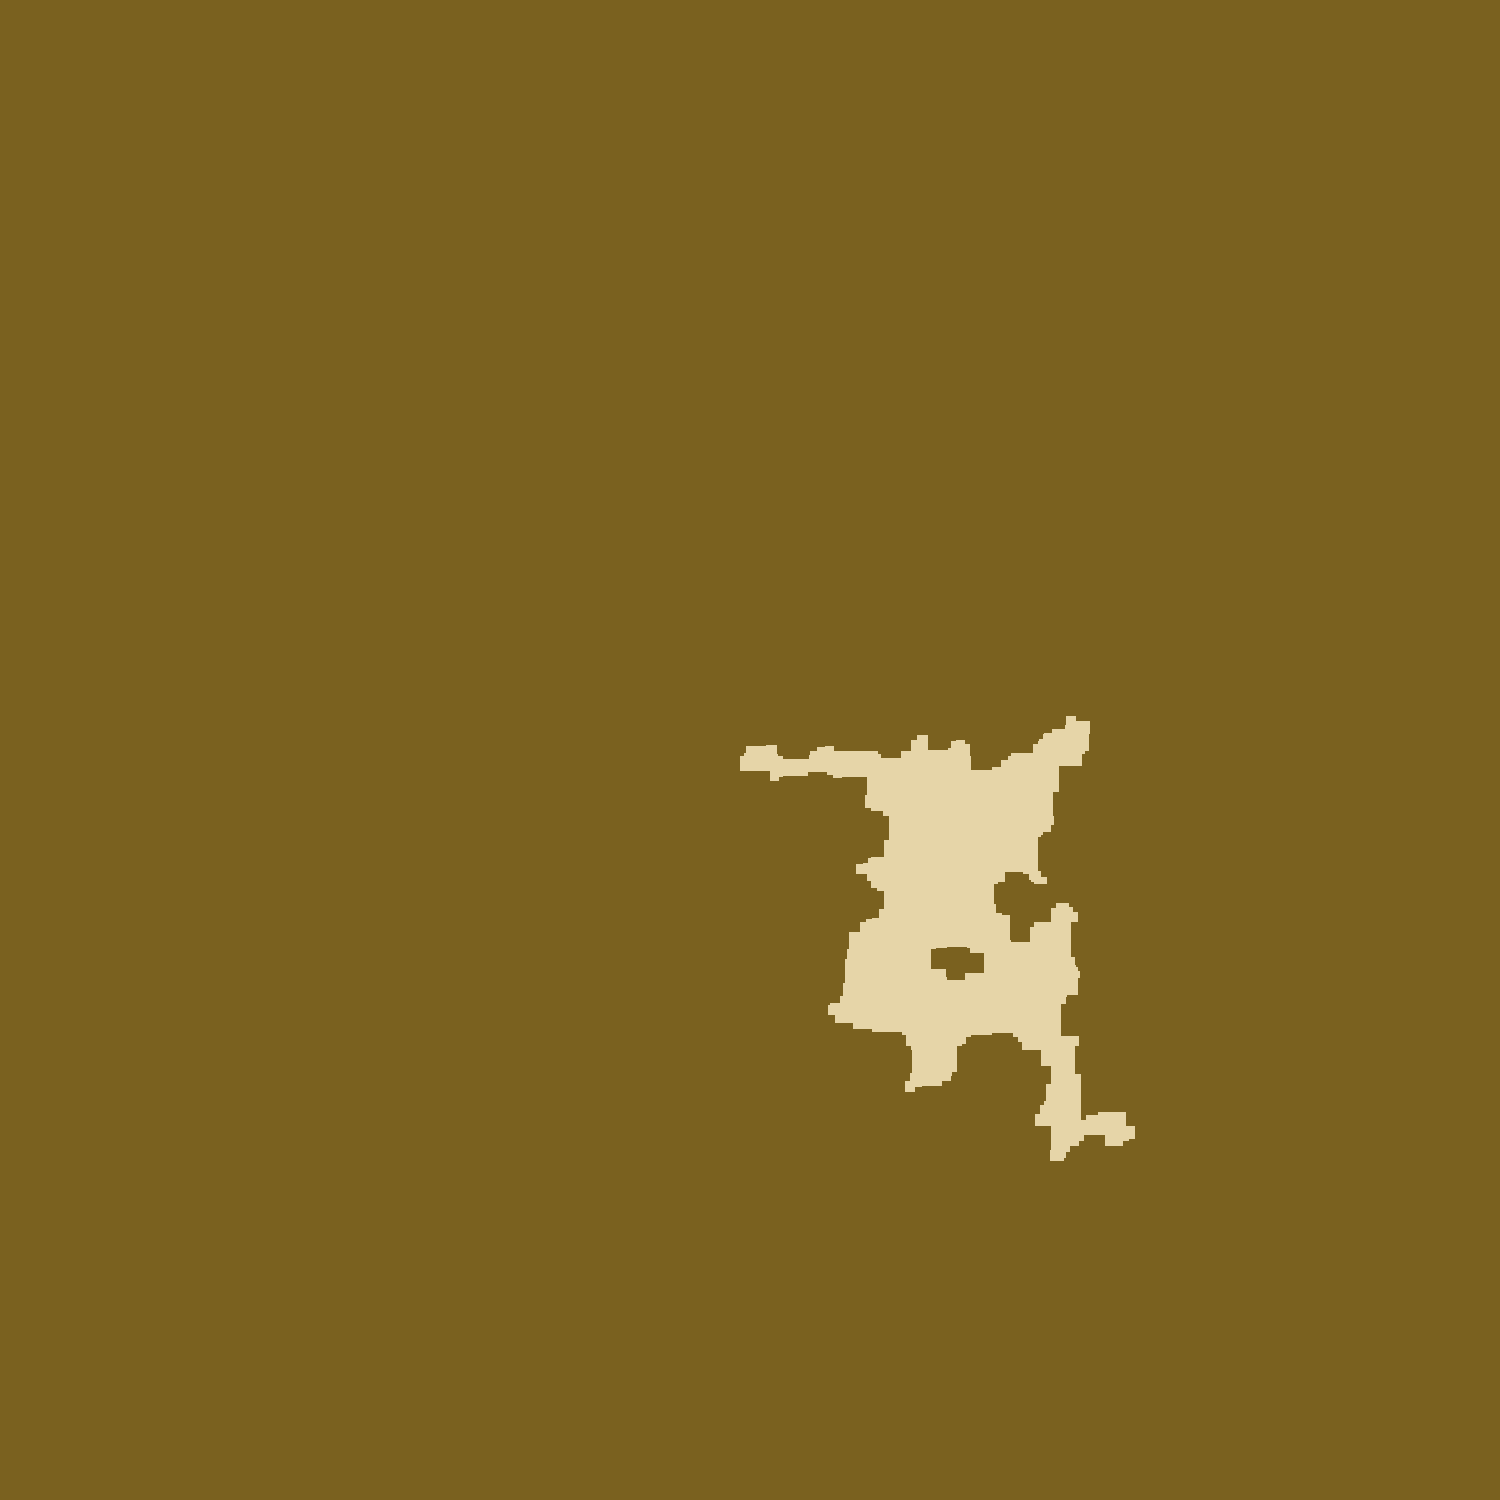
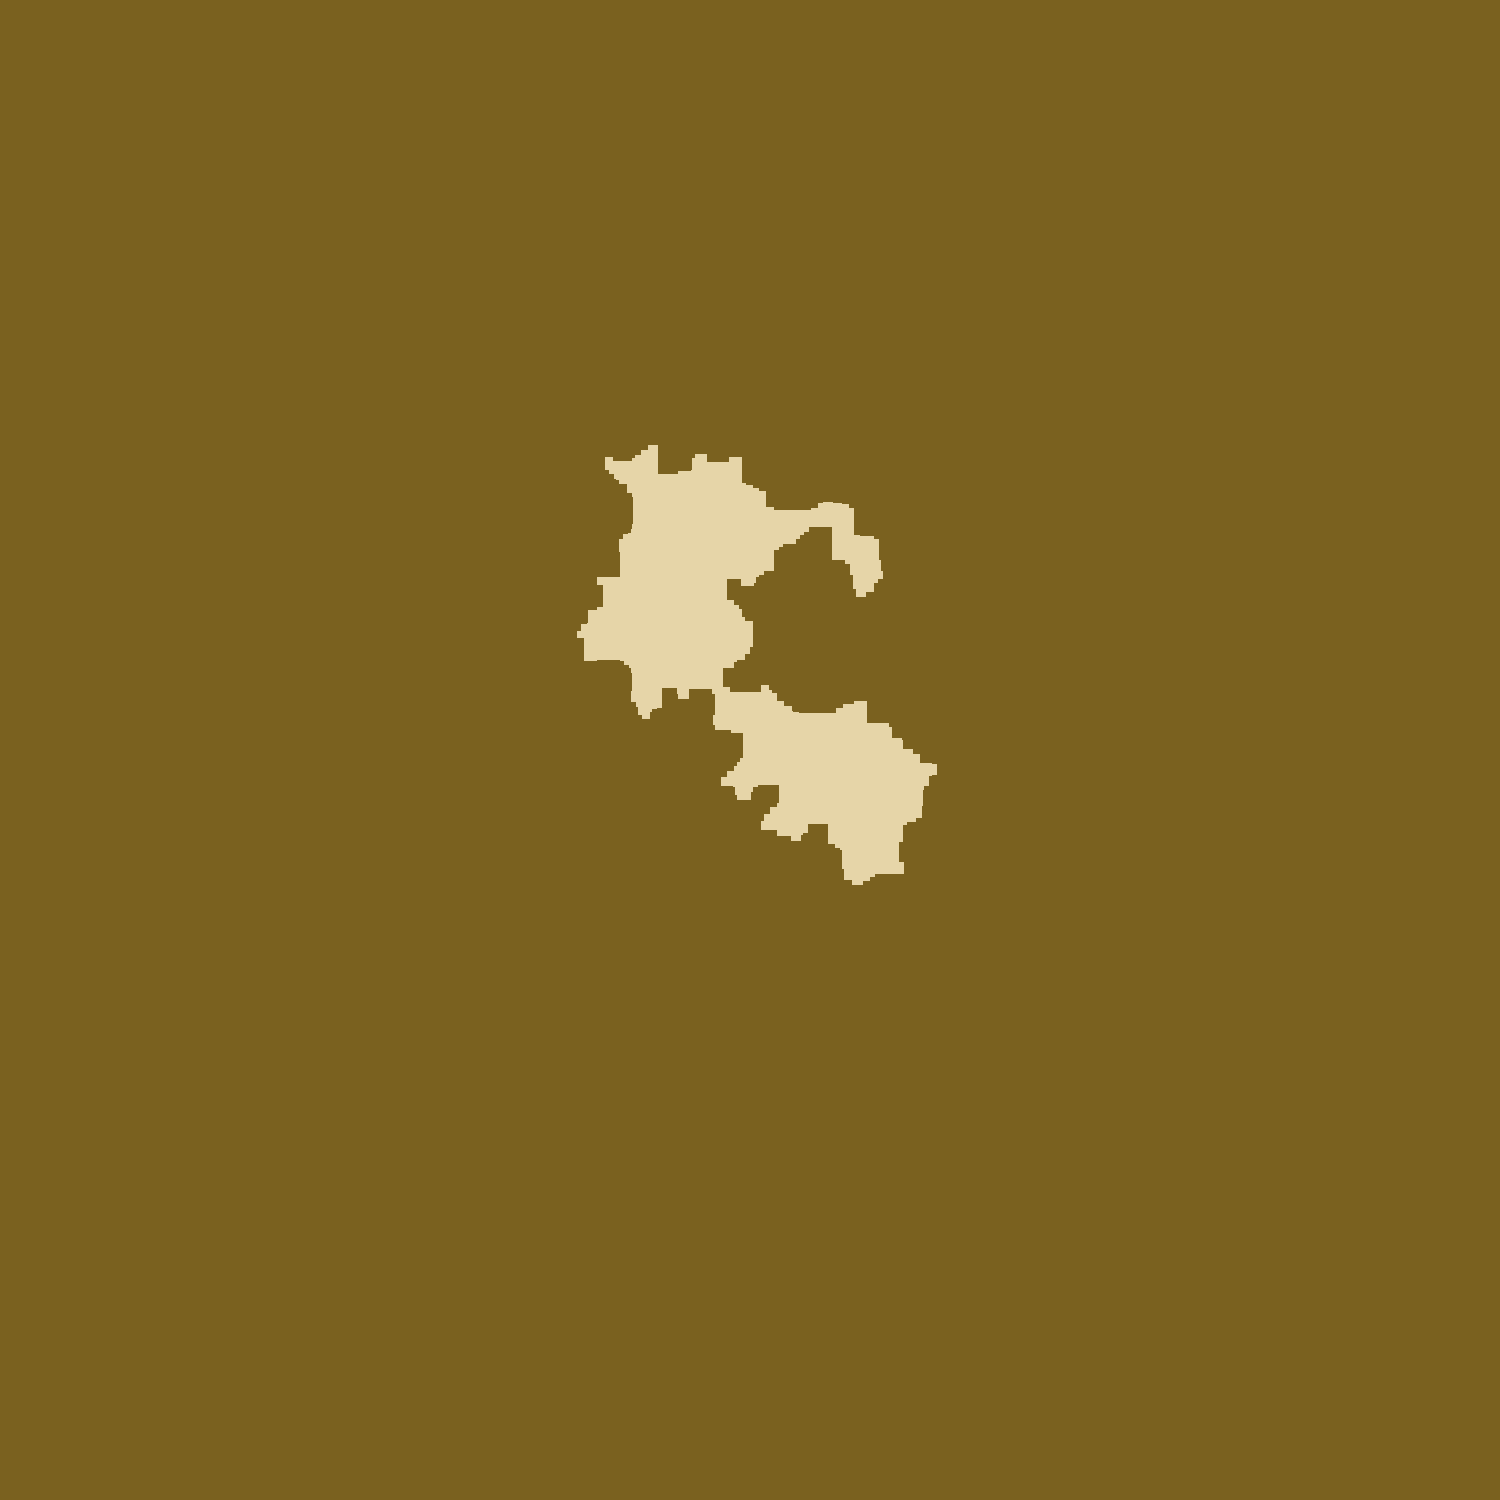
add multi thread gen

Changed region(s): [[0.368, 0.3067, 0.7667, 0.7667]]

diff --git a/src/main.rs b/src/main.rs
@@ -126,31 +126,8 @@ fn main() {
 
         generation_area_size: (700, 700),
     };
-    // Biome {
-    //     name: String::from("Ledge2"),
-    //     // odds: 1.0,
-    //     oob_type: TileType::Wall,
-    //     rng_range_multiplicator_rectangle_size: (0.01, 0.020),
-    //     rng_range_number_of_direction_changes: (20, 30),
-    //     rng_range_direction_repeat: (10, 15),
-    //     allowed_directions: vec![(1, -1), (0, 1), (0, -1)],
-    //     generation_init_center: (750, 750),
-    //     generation_area_size: (700, 700),
-    // },
 
-    // let mut biome2 = biomes.to_vec();
-    // let mut handlers = Vec::new();
-    // while let Some(biome) = biome2.pop() {
-    //     biome3 = biomes.to_vec();
-    //     handlers.push(thread::spawn(move || {
-    //         generate_map(seed, &biome, biomes.to_vec());
-    //     }));
-    // }
-    // for handler in handlers {
-    //     handler.join().unwrap();
-    // }
-
-    let maps: Vec<Map> = vec![
+    let mut maps: Vec<Map> = vec![
         Map {
             name: String::from("Island"),
             oob_type: TileType::Water,
@@ -174,7 +151,7 @@ fn main() {
                 large_all_dir.clone(),
                 large_all_dir.clone(),
             ],
-            generation_init_center: (750, 750),
+            generation_init_center: (100, 100),
         },
         Map {
             name: String::from("Forest"),
@@ -199,8 +176,17 @@ fn main() {
         },
     ];
 
-    for map in maps {
-        generate_map(seed, map);
+    // for map in maps {
+    //     generate_map(seed, map);
+    // }
+    let mut handlers = Vec::new();
+    while let Some(map) = maps.pop() {
+        handlers.push(thread::spawn(move || {
+            generate_map(seed, map);
+        }));
+    }
+    for handler in handlers {
+        handler.join().unwrap();
     }
 }
 
